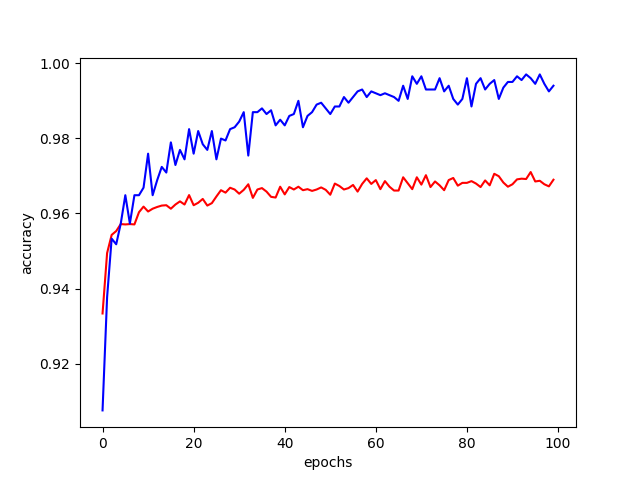
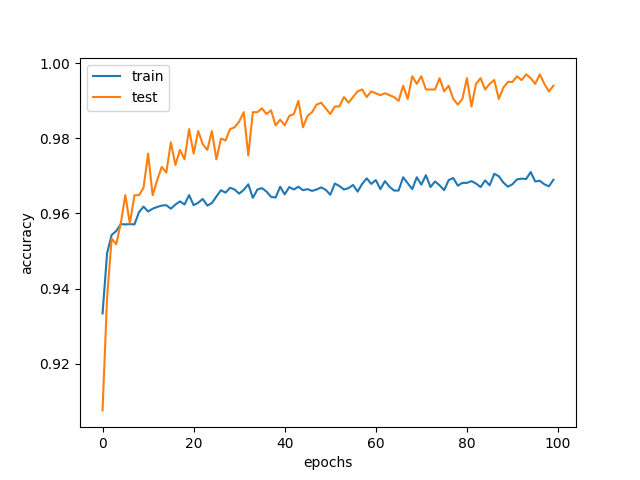
d

diff --git a/perceptron/perceptron.py b/perceptron/perceptron.py
@@ -23,8 +23,7 @@ return w, accuracy
             if S[i][1] * np.dot(w, S[i][0]) <= 0:
                 mistakes += 1
                 w += np.dot(S[i][1], S[i][0])
-        accuracy.append( 1 - mistakes / len(S) )
-        
+        accuracy.append( 1 - mistakes / len(S) )      
     return w, accuracy
     
 def confusion_matrix(S, w):
@@ -86,8 +85,9 @@ plt.show()
 # (b). Plot the evolution of testing dataset accuracy versus the epoch counter (use the same figure as in part (a)).
 w_test, acc_test = perceptron(test, 100)
 plt.figure()
-plt.plot(range(len(acc_train)), acc_train, color='red')
-plt.plot(range(len(acc_test)), acc_test, color='blue')
+l_train, = plt.plot(range(len(acc_train)), acc_train)
+l_test, = plt.plot(range(len(acc_test)), acc_test)
+plt.legend(handles=[l_train, l_test], labels=['train', 'test'], loc='best')
 plt.xlabel('epochs')
 plt.ylabel('accuracy')
 plt.show()
@@ -97,11 +97,43 @@ print('accuracy: ',acc_test[-1])
 print('confusion matrix: ', confusion_matrix(test, w_test))
 
 # (d).
-l = len(test)
-w_prime, acc_prime = perceptron( test[:round(l)], 100 )
-[ [TPp, FPp], [FNp, TNp] ] = confusion_matrix(test[:round(l)], w_prime)
+#del(ROC)
+def ROC(data, w, start = -10, stop = 10, num = 100):
+    x = []
+    y = []
+    for b in np.linspace(start, stop, num):
+        TP = 0
+        FP = 0
+        FN = 0
+        TN = 0
+        for i in range(len(data)):
+            y_hat = np.dot(w, data[i][0]) - b
+            if y_hat * data[i][1] > 0:
+                if data[i][1] > 0:
+                    TP += 1
+                else:
+                    TN += 1
+            else:
+                if data[i][1] > 0:
+                    FN += 1
+                else:
+                    FP += 1         
+        TPR = TP / (TP + FN)
+        FPR = FP / (FP + TN)
+        x.append(FPR)
+        y.append(TPR)
+    return x, y
 
-
-
-w_star, acc_star = perceptron( test[round(l):], 100)
-[ [TPs, FPs], [FNs, TNs] ] = confusion_matrix(test[round(l):], w_star)
+w_prime = perceptron(test[:round(len(test)/3)], 1)[0]
+x_prime, y_prime = ROC(test[:round(len(test)/3)], w_prime, -1000, 1000, 1000)
+w_star = perceptron(test, 100)[0]
+x_star, y_star = ROC(test, w_star, -1000, 1000, 1000)
+plt.figure()
+l_prime, = plt.plot(x_prime, y_prime)
+l_star, = plt.plot(x_star, y_star)
+plt.xlabel('FPR')
+plt.ylabel('TPR')
+plt.legend(handles=[l_prime, l_star], labels=['w_prime', 'w_star'], loc='best')
+plt.show()
+print(x_prime)
+print(y_prime)
